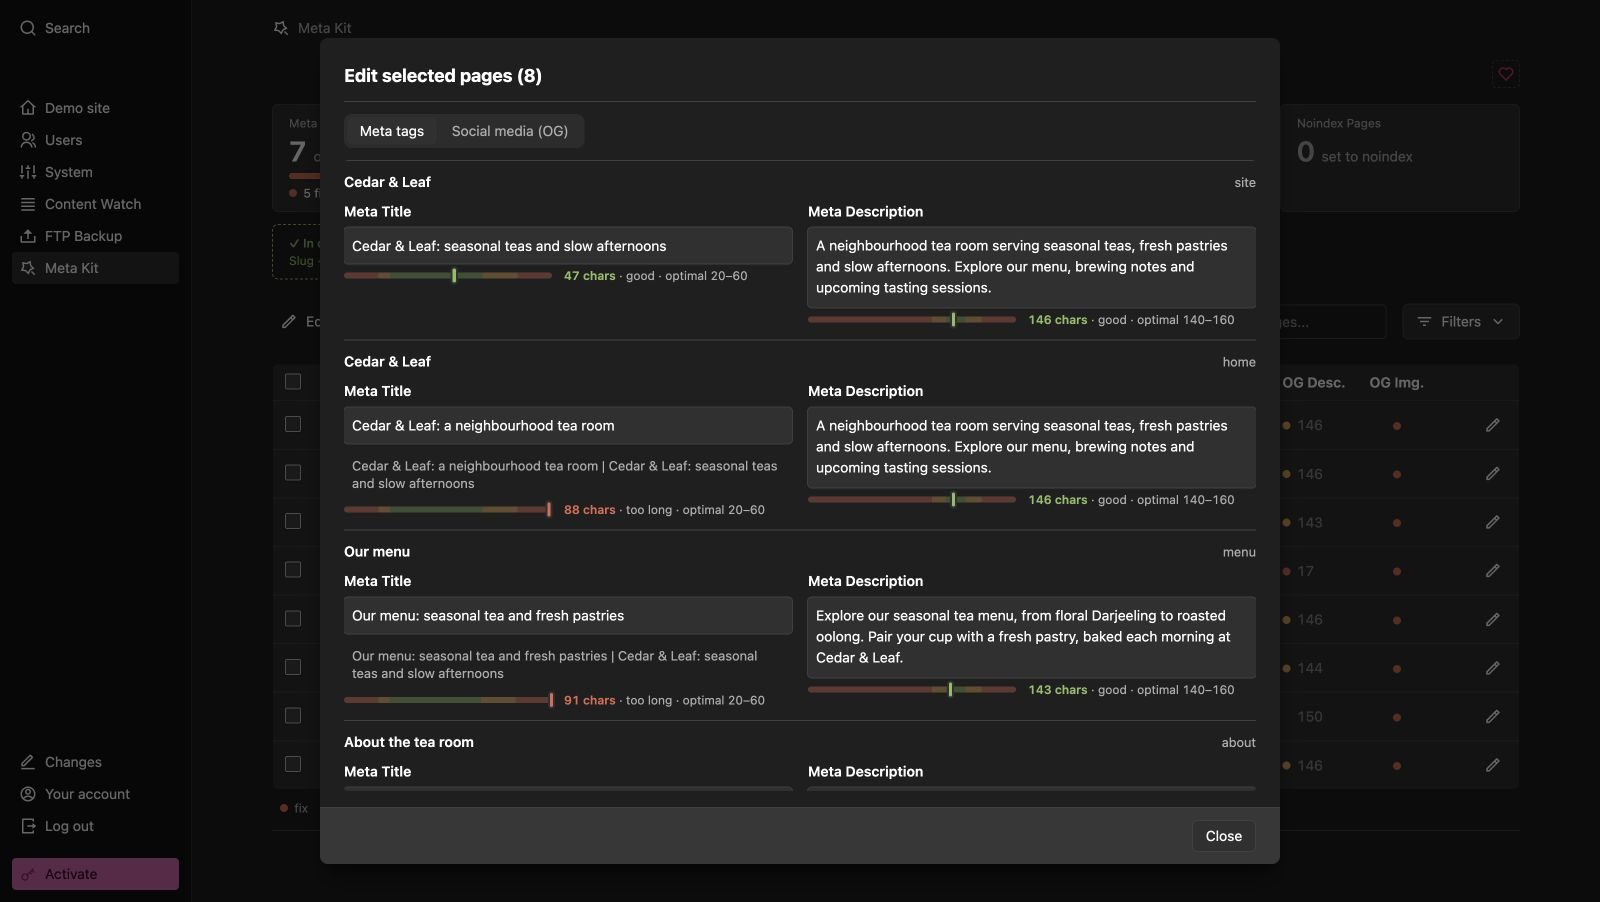
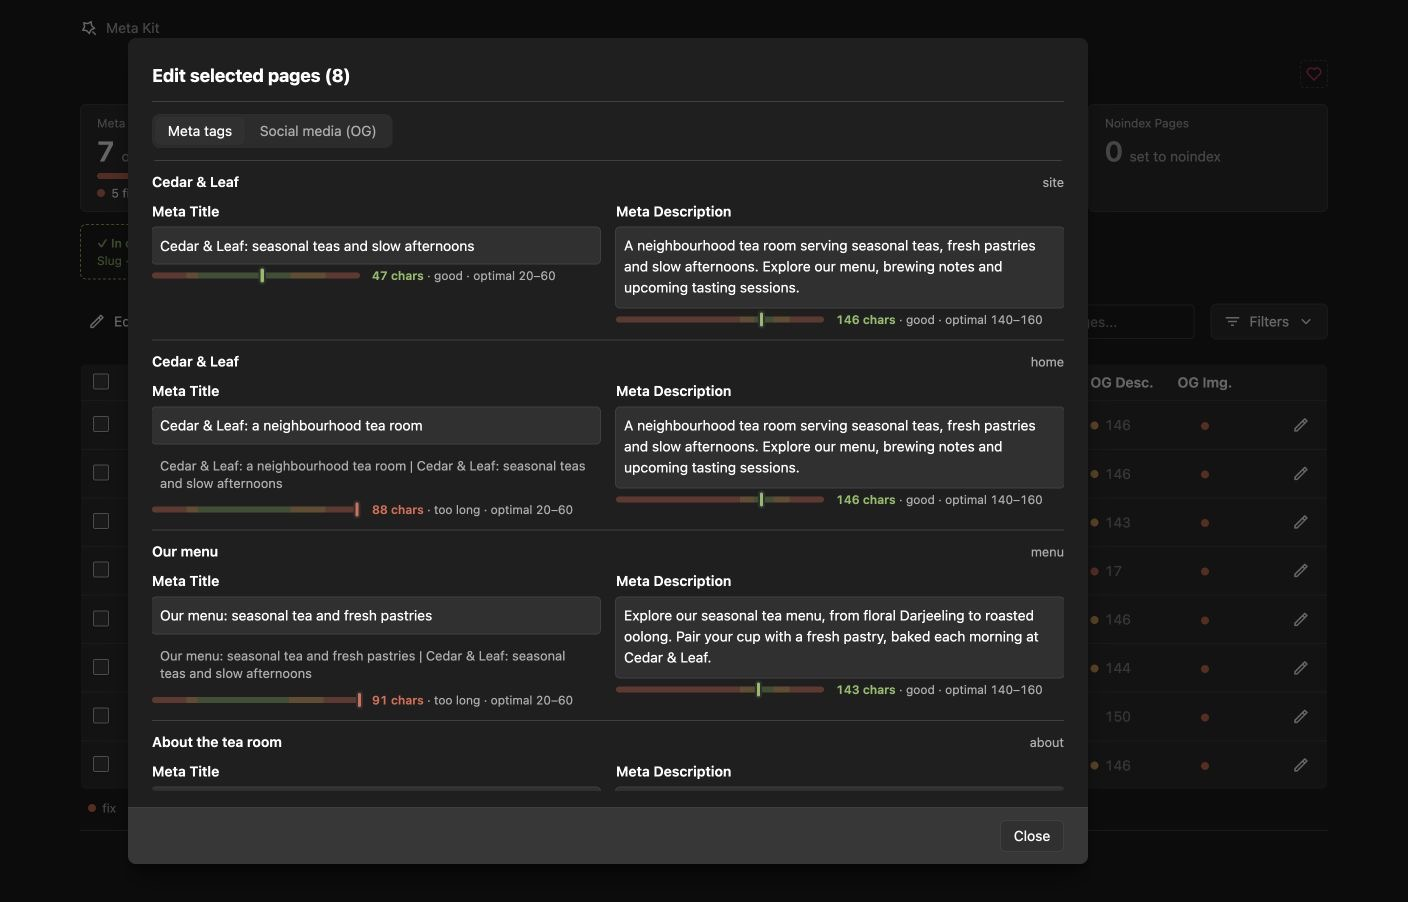
docs: refine screenshots and remove Panel sidebar

diff --git a/README.md b/README.md
@@ -216,7 +216,7 @@ Meta Kit is fully MIT-licensed — no paywalls, no feature gates. If it saves yo
 
 ## Screenshots
 
-Screenshots use fictional Cedar & Leaf sample content at 1600 × 902 pixels. The main image uses the light theme.
+Screenshots use sample content at 1408 × 902 pixels. Panel views are cropped to the content area. The main image uses the light theme.
 
 | View | Light | Dark |
 | --- | --- | --- |
